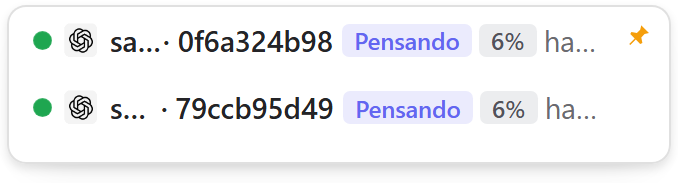
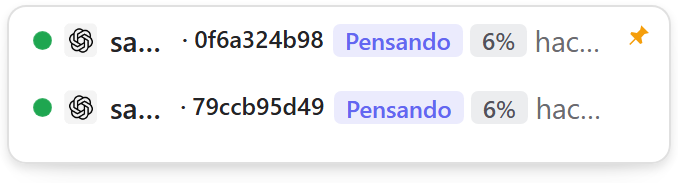
fix(hud): match fallback tag size to secondary chips

diff --git a/src/session-hud.html b/src/session-hud.html
@@ -198,7 +198,7 @@ body { padding: 2px 3px 8px; }
   min-width: min-content;
 }
 .title-fallback-label { min-width: 0; overflow: hidden; text-overflow: ellipsis; }
-.title-fallback-tag { flex: 0 0 auto; }
+.title-fallback-tag { flex: 0 0 auto; font-size: 10px; }
 
 .chip-recovered {
   border: 1px dashed currentColor;
